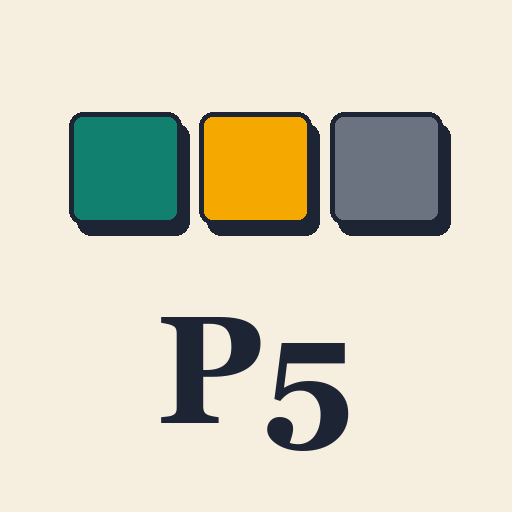
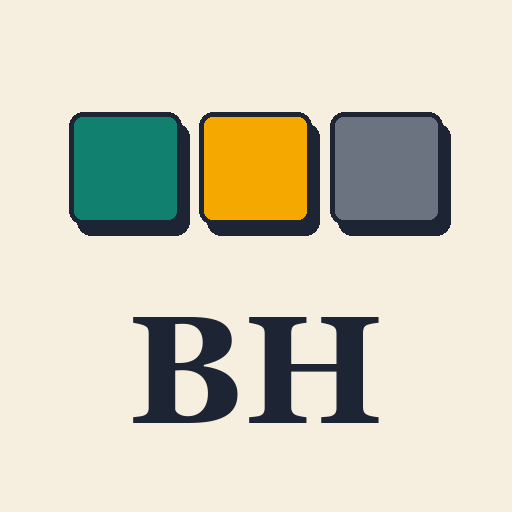
Rename site from Pentaglyph to Ben Hoffmann everywhere
Page title, logo, social tags, PWA name, share text, story image,
icons and social preview image.

Changed region(s): [[0.25, 0.5938, 0.75, 0.9062]]

diff --git a/public/game.js b/public/game.js
@@ -1,4 +1,4 @@
-/* Pentaglyph – game logic. No dependencies. */
+/* Ben Hoffmann – game logic. No dependencies. */
 (() => {
   'use strict';
 
@@ -285,7 +285,7 @@
   /* ---------- share ---------- */
   const EMOJI = { correct: '🟩', present: '🟧', absent: '⬛' };
   const grid = () => game.guesses.map(g => score(g, game.answer).map(s => EMOJI[s]).join(''));
-  const label = () => game.mode === 'daily' ? `Pentaglyph #${game.day}` : game.mode === 'challenge' ? 'Pentaglyph challenge' : 'Pentaglyph practice';
+  const label = () => game.mode === 'daily' ? `Ben Hoffmann #${game.day}` : game.mode === 'challenge' ? 'Ben Hoffmann challenge' : 'Ben Hoffmann practice';
 
   function shareText() {
     const s = getStats();
@@ -324,9 +324,9 @@
     x.globalAlpha = 1;
     x.textAlign = 'center'; x.fillStyle = ink;
 
-    x.font = '900 120px Rockwell, "Roboto Slab", Georgia, serif';
-    const w1 = x.measureText('Penta').width, w2 = x.measureText('glyph').width, sx = W / 2 - (w1 + w2) / 2;
-    x.textAlign = 'left'; x.fillText('Penta', sx, 270); x.fillStyle = accent; x.fillText('glyph', sx + w1, 270);
+    x.font = '900 108px Rockwell, "Roboto Slab", Georgia, serif';
+    const w1 = x.measureText('Ben ').width, w2 = x.measureText('Hoffmann').width, sx = W / 2 - (w1 + w2) / 2;
+    x.textAlign = 'left'; x.fillText('Ben ', sx, 270); x.fillStyle = accent; x.fillText('Hoffmann', sx + w1, 270);
     x.textAlign = 'center'; x.fillStyle = ink; x.font = '700 40px system-ui, Arial, sans-serif';
     x.fillText((game.mode === 'daily' ? `DAILY PUZZLE  #${game.day}` : game.mode === 'challenge' ? 'FRIEND CHALLENGE' : 'PRACTICE ROUND'), W / 2, 345);
     x.fillRect(190, 380, W - 380, 8);
@@ -360,11 +360,11 @@
     const cv = storyCanvas();
     cv.toBlob(async blob => {
       if (!blob) return toast('Could not make image');
-      const file = new File([blob], 'pentaglyph.png', { type: 'image/png' });
+      const file = new File([blob], 'ben-hoffmann.png', { type: 'image/png' });
       if (navigator.canShare && navigator.canShare({ files: [file] })) {
         try { await navigator.share({ files: [file], text: shareText() }); return; } catch (e) { if (e.name === 'AbortError') return; }
       }
-      const a = document.createElement('a'); a.href = URL.createObjectURL(blob); a.download = 'pentaglyph-story.png';
+      const a = document.createElement('a'); a.href = URL.createObjectURL(blob); a.download = 'ben-hoffmann-story.png';
       document.body.appendChild(a); a.click(); a.remove(); setTimeout(() => URL.revokeObjectURL(a.href), 4000);
       toast('Image saved – post it to your story!');
     }, 'image/png');
@@ -441,7 +441,7 @@
     if (w.length !== COLS) { msg.textContent = 'Enter a five-letter word.'; return; }
     if (!VALID.has(w)) { msg.textContent = "That word isn't in our list – try another."; return; }
     const link = `${siteUrl()}?c=${encodeWord(w)}`;
-    const text = `I've hidden a five-letter word on Pentaglyph. Six guesses to crack it – can you? ${link}`;
+    const text = `I've hidden a five-letter word on Ben Hoffmann. Six guesses to crack it – can you? ${link}`;
     msg.textContent = 'Link ready – send it to a friend!';
     $('#btn-challenge-go').textContent = 'Share again';
     await shareOrCopy(text);

diff --git a/public/privacy.html b/public/privacy.html
@@ -3,7 +3,7 @@
 <head>
 <meta charset="utf-8">
 <meta name="viewport" content="width=device-width, initial-scale=1">
-<title>Privacy policy – Pentaglyph</title>
+<title>Privacy policy – Ben Hoffmann</title>
 <link rel="stylesheet" href="style.css">
 </head>
 <body>
@@ -13,13 +13,13 @@
   <p><em>Template – have this reviewed and fill in the bracketed parts before launch. Last updated: [date].</em></p>
 
   <h2>Who we are</h2>
-  <p>Pentaglyph is operated by [your name or business name], based in Australia. Contact: [your email address].</p>
+  <p>Ben Hoffmann is operated by [your name or business name], based in Australia. Contact: [your email address].</p>
 
   <h2>What stays on your device</h2>
   <p>The game saves your progress, statistics, streak and settings in your browser's local storage. This data never leaves your device and we cannot see it. Clearing your browser data removes it.</p>
 
   <h2>Advertising</h2>
-  <p>Pentaglyph is free because it shows ads served by Google AdSense. Google and its partners may use cookies and similar technologies to show ads based on your visits to this and other sites, and to measure how ads perform. This can involve your IP address and device information being sent to Google.</p>
+  <p>Ben Hoffmann is free because it shows ads served by Google AdSense. Google and its partners may use cookies and similar technologies to show ads based on your visits to this and other sites, and to measure how ads perform. This can involve your IP address and device information being sent to Google.</p>
   <ul>
     <li>You can choose <strong>Accept</strong> (personalised ads) or <strong>Non-personalised</strong> in the ad choices banner, and change your mind any time using <strong>Ad choices</strong> in the page footer.</li>
     <li>Learn how Google uses data: <a href="https://policies.google.com/technologies/partner-sites">policies.google.com/technologies/partner-sites</a>.</li>
@@ -30,7 +30,7 @@
   <p>If you share a result or create a challenge link, the content is created in your browser and sent by whichever app you choose. We do not store challenge words on a server – the word is encoded in the link itself.</p>
 
   <h2>Children</h2>
-  <p>Pentaglyph is a general-audience game and is not directed at children under 13.</p>
+  <p>Ben Hoffmann is a general-audience game and is not directed at children under 13.</p>
 
   <h2>Your rights</h2>
   <p>Because we do not hold personal information about you ourselves, there is usually nothing to access or delete. If you are in Australia, the EU/UK or California and have a question about your information, contact us at [your email address].</p>

diff --git a/public/index.html b/public/index.html
@@ -4,7 +4,7 @@
 <meta charset="utf-8">
 <meta name="viewport" content="width=device-width, initial-scale=1, viewport-fit=cover">
 <title>Ben Hoffmann</title>
-<meta name="description" content="Pentaglyph is a free daily word puzzle. Crack the hidden five-letter word in six guesses, then challenge your friends.">
+<meta name="description" content="Ben Hoffmann is a free daily word puzzle. Crack the hidden five-letter word in six guesses, then challenge your friends.">
 <meta name="theme-color" content="#f6efe0">
 <link rel="manifest" href="manifest.webmanifest">
 <link rel="icon" href="icon.svg" type="image/svg+xml">
@@ -13,8 +13,8 @@
 
 <!-- Social previews: replace example.com with your domain -->
 <meta property="og:type" content="website">
-<meta property="og:site_name" content="Pentaglyph">
-<meta property="og:title" content="Pentaglyph – can you crack today's word?">
+<meta property="og:site_name" content="Ben Hoffmann">
+<meta property="og:title" content="Ben Hoffmann – can you crack today's word?">
 <meta property="og:description" content="One five-letter word. Six guesses. Free daily puzzle – challenge your friends.">
 <meta property="og:url" content="https://example.com/">
 <meta property="og:image" content="https://example.com/og.png">
@@ -32,7 +32,7 @@
     <header class="top">
       <button class="icon-btn" id="btn-help" aria-label="How to play"><svg viewBox="0 0 24 24" aria-hidden="true"><circle cx="12" cy="12" r="9"/><path d="M9.5 9.5a2.5 2.5 0 1 1 3.6 2.2c-.7.4-1.1.9-1.1 1.8M12 17h.01"/></svg></button>
       <div class="brand">
-        <h1 class="logo">Penta<span>glyph</span></h1>
+        <h1 class="logo">Ben <span>Hoffmann</span></h1>
         <p class="mode" id="mode-label">Daily puzzle</p>
       </div>
       <div class="top-right">
@@ -130,7 +130,7 @@
 
 <!-- Consent banner -->
 <div id="consent" class="consent" role="dialog" aria-label="Cookie and ads choices" hidden>
-  <p>We show ads to keep Pentaglyph free. Ads may use cookies to personalise what you see. See our <a href="privacy.html">privacy policy</a>.</p>
+  <p>We show ads to keep Ben Hoffmann free. Ads may use cookies to personalise what you see. See our <a href="privacy.html">privacy policy</a>.</p>
   <div class="consent-btns">
     <button class="btn" id="consent-no">Non-personalised</button>
     <button class="btn primary" id="consent-yes">Accept</button>

diff --git a/public/sw.js b/public/sw.js
@@ -1,5 +1,5 @@
 // Network-first service worker: always fresh when online, playable offline.
-const CACHE = 'pentaglyph-v1';
+const CACHE = 'benhoffmann-v1';
 const ASSETS = ['./', 'index.html', 'style.css', 'config.js', 'words.js', 'game.js', 'ads.js', 'icon.svg'];
 
 self.addEventListener('install', e => { e.waitUntil(caches.open(CACHE).then(c => c.addAll(ASSETS)).then(() => self.skipWaiting())); });

diff --git a/public/ads.js b/public/ads.js
@@ -1,4 +1,4 @@
-/* Pentaglyph – ads + consent. Does nothing until enabled in config.js. */
+/* Ben Hoffmann – ads + consent. Does nothing until enabled in config.js. */
 (() => {
   'use strict';
   const A = (window.PENTA_CONFIG || {}).ads || {};

diff --git a/public/style.css b/public/style.css
@@ -1,4 +1,4 @@
-/* Pentaglyph – print-shop / risograph look */
+/* Ben Hoffmann – print-shop / risograph look */
 :root {
   --paper: #f6efe0;
   --paper-2: #fffaf0;

diff --git a/tools/make-images.py b/tools/make-images.py
@@ -21,7 +21,7 @@ def icon(n):
     im = Image.new('RGB', (n, n), PAPER); d = ImageDraw.Draw(im)
     s = n * .22; gap = n * .035; total = 3 * s + 2 * gap; x0 = (n - total) / 2
     for i, c in enumerate((TEAL, GOLD, GREY)): tile(d, x0 + i * (s + gap), n * .22, s, c)
-    d.text((n / 2, n * .72), 'P5', font=font(int(n * .3)), fill=INK, anchor='mm')
+    d.text((n / 2, n * .72), 'BH', font=font(int(n * .3)), fill=INK, anchor='mm')
     im.save(os.path.join(root, f'icon-{n}.png'))
 
 def og():
@@ -29,13 +29,13 @@ def og():
     im = Image.new('RGB', (W, H), PAPER); d = ImageDraw.Draw(im)
     for y in range(0, H, 22):
         for x in range((y // 22 % 2) * 11, W, 22): d.ellipse([x, y, x + 3, y + 3], fill='#e6dfce')
-    f = font(120); w1 = d.textlength('Penta', font=f); w2 = d.textlength('glyph', font=f); x = (W - w1 - w2) / 2
-    d.text((x, 90), 'Penta', font=f, fill=INK); d.text((x + w1, 90), 'glyph', font=f, fill=RED)
+    f = font(120); w1 = d.textlength('Ben ', font=f); w2 = d.textlength('Hoffmann', font=f); x = (W - w1 - w2) / 2
+    d.text((x, 90), 'Ben ', font=f, fill=INK); d.text((x + w1, 90), 'Hoffmann', font=f, fill=RED)
     d.text((W / 2, 270), 'One word. Six guesses. Can you crack it?', font=font(40), fill=INK, anchor='mm')
     pat = [(TEAL, GOLD, GREY, GREY, GOLD), (GREY, TEAL, TEAL, GOLD, GREY), (TEAL, TEAL, TEAL, TEAL, TEAL)]
-    s, g = 90, 14; x0 = (W - (5 * s + 4 * g)) / 2
+    s, g = 80, 12; x0 = (W - (5 * s + 4 * g)) / 2
     for r, row in enumerate(pat):
-        for c, col in enumerate(row): tile(d, x0 + c * (s + g), 330 + r * (s + g), s, col)
+        for c, col in enumerate(row): tile(d, x0 + c * (s + g), 318 + r * (s + g), s, col)
     im.save(os.path.join(root, 'og.png'))
 
 icon(192); icon(512); og(); print('ok')

diff --git a/TODO.md b/TODO.md
@@ -1,4 +1,4 @@
-# Pentaglyph – before launch
+# Ben Hoffmann – before launch
 
 - [ ] **Domain:** buy a custom domain (AdSense is unlikely to approve a shared free subdomain), then replace `https://example.com` in `index.html` (canonical, og:*, twitter tags). Optionally set `siteUrl` in `config.js`.
 - [ ] **Launch date:** set `launchDate` in `config.js` to your launch day (it is currently 2026-10-19). That day becomes puzzle #1.

diff --git a/README.md b/README.md
@@ -1,4 +1,4 @@
-# Pentaglyph
+# Ben Hoffmann
 
 Static site – the `public/` folder is the whole website. No build step. Cloudflare Pages: build command empty, output directory `public`.
 
